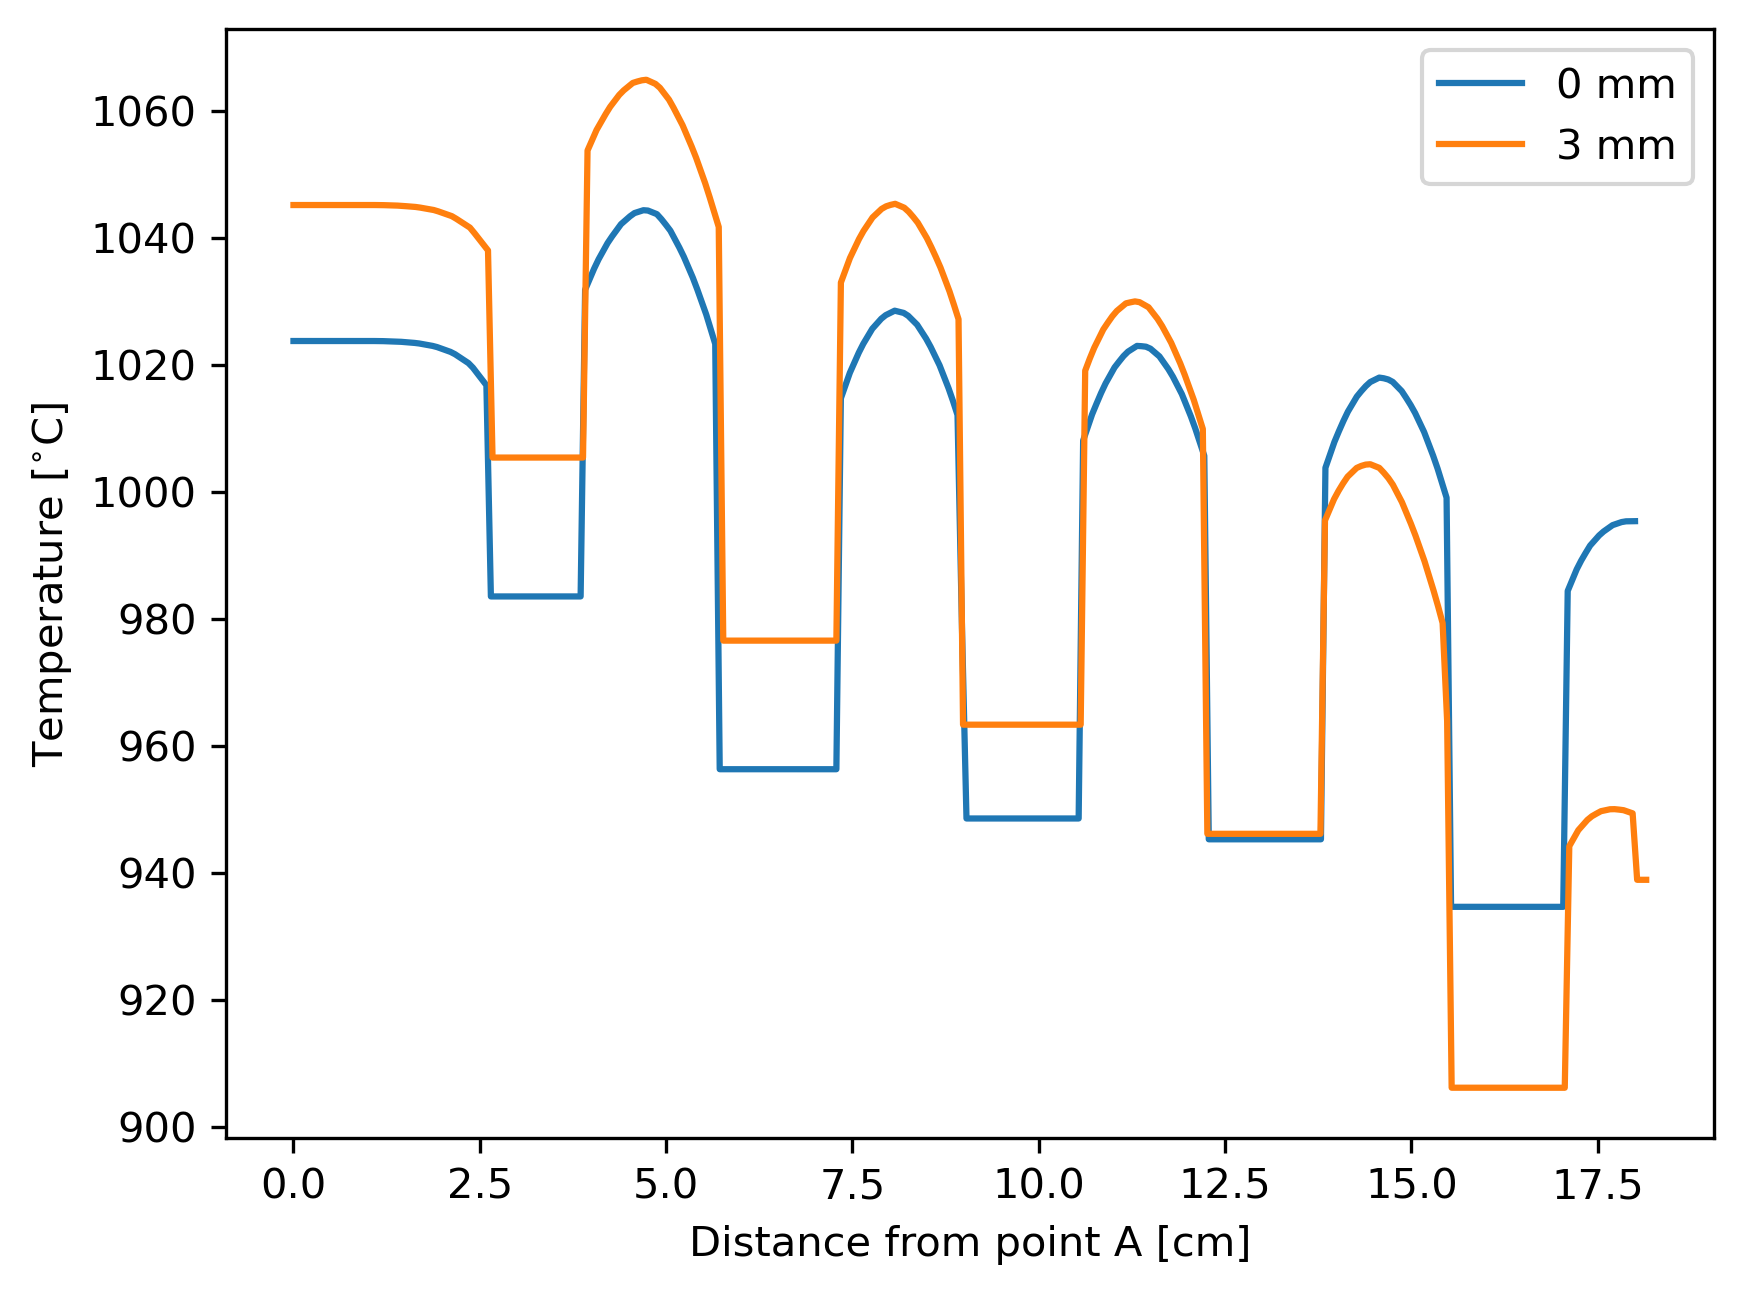
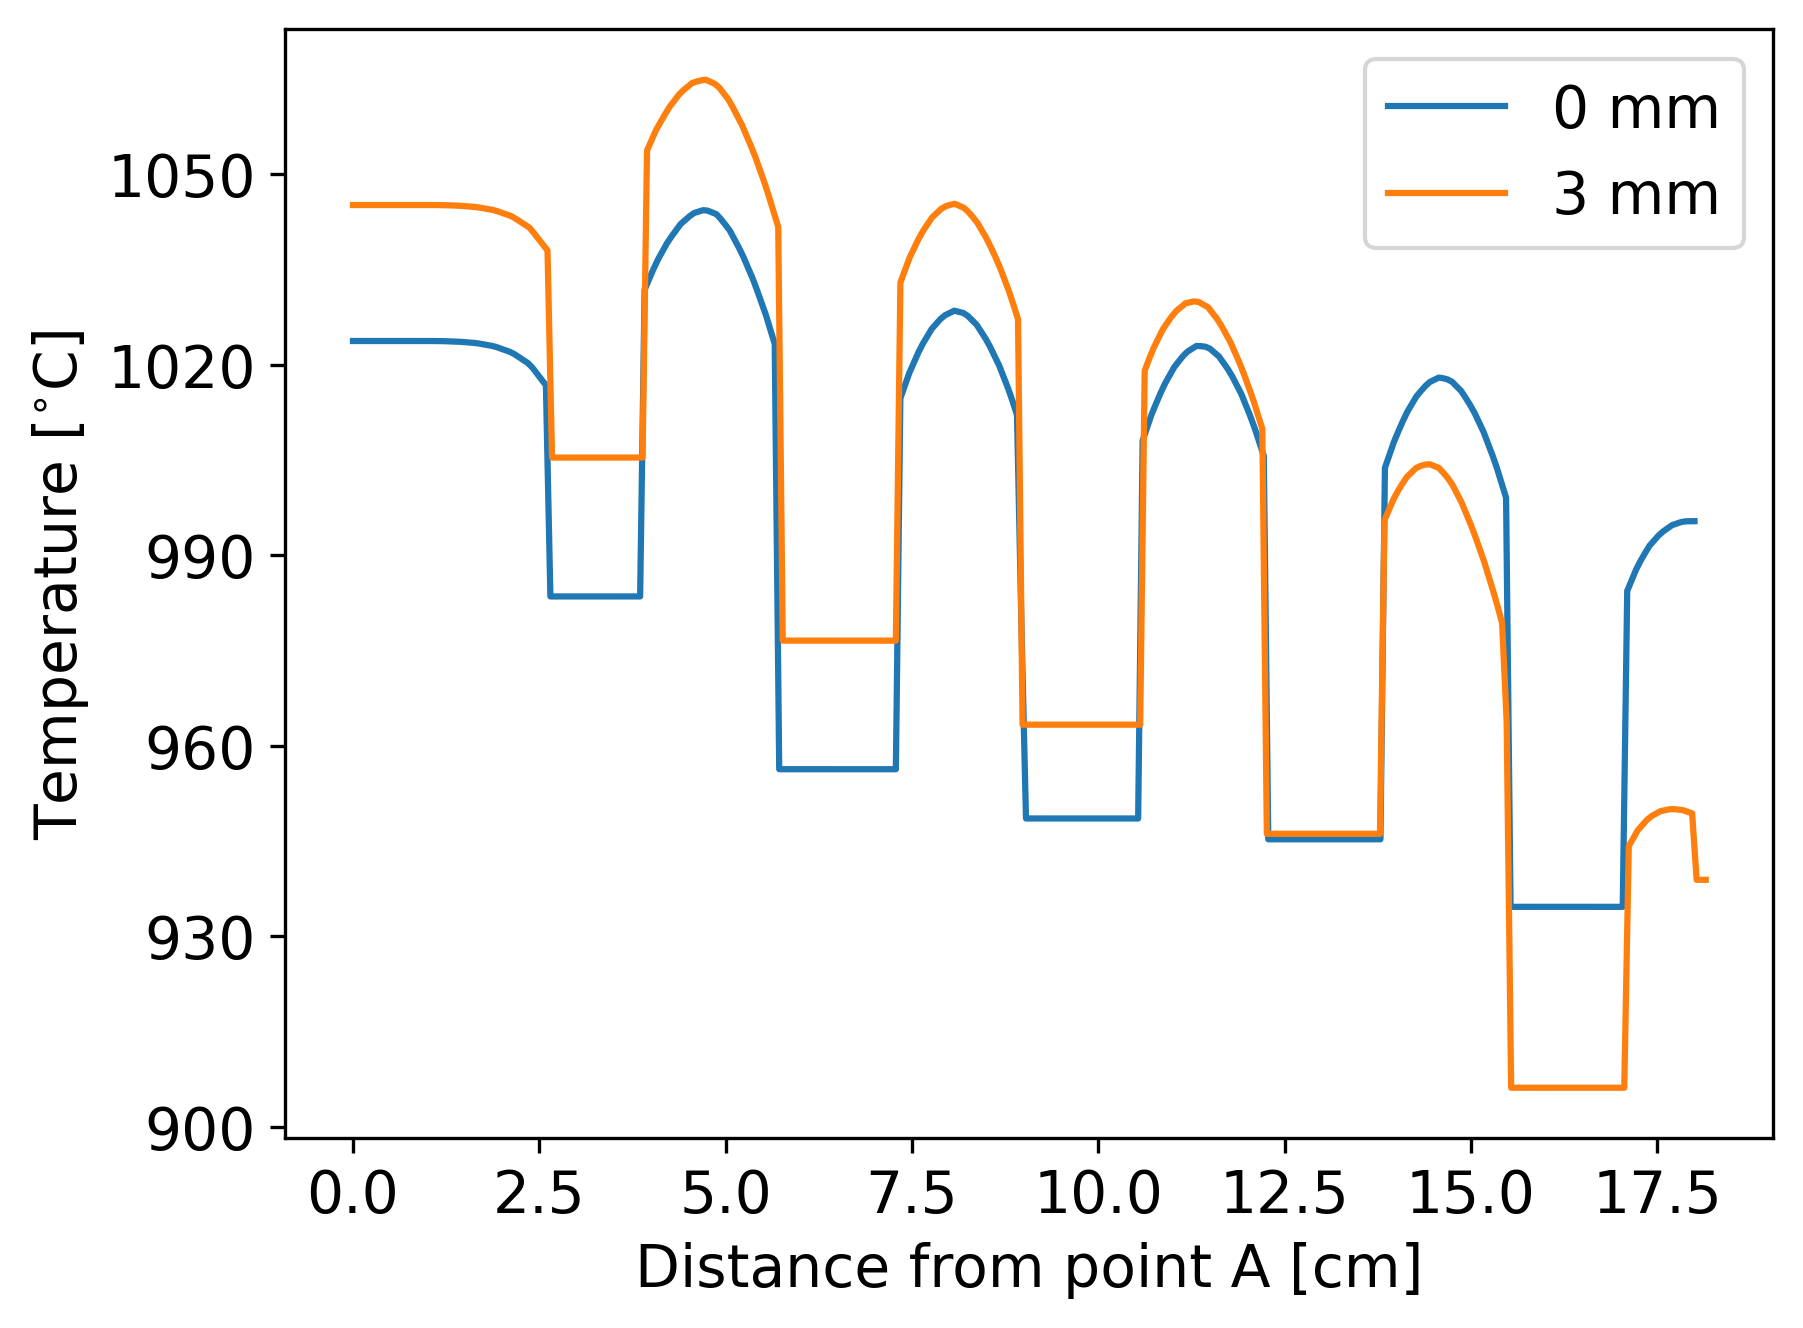
updating the font in the figures

diff --git a/thermalfluids.tex b/thermalfluids.tex
@@ -94,7 +94,7 @@ This section intended to reproduce the results found by In et al. 2006 \cite{in_
 I chose this article because it solves a three-dimensional unit-cell model and gives one of the most thorough descriptions in the open literature.
 Table \ref{tab:th-val-unit-char} presents the problem characteristics.
 The article does not specify the solid's material properties, so the model used parameters from Tak et al. 2008 \cite{tak_numerical_2008}.
-Figure \ref{fig:th-val-unit-model} displays the model geometry and the temperature dependent material properties.
+Figure \ref{fig:th-val-unit-model} displays the model geometry and Figure \ref{fig:th-val-unit-model-b} the temperature dependent material properties.
 Additionally, In et al. used a chopped cosine as the power profile, which the model used the average value of to simplify the analysis.
 
 \begin{table}[htbp!]
@@ -129,16 +129,19 @@ Additionally, In et al. used a chopped cosine as the power profile, which the mo
 \end{table}
 
 \begin{figure}[htbp!]
-	\centering
-    \subfloat[Axial layout of the model geometry.]{
-        \includegraphics[width=0.40\textwidth]{figures-thermal/unitcell2}
-    }
-    \subfloat[Temperature dependent material properties \cite{tak_numerical_2008}. \label{fig:th-val-unit-model-b}]{
-        \includegraphics[width=0.45\textwidth]{figures-thermal/val-unit-matprop}
-    }
-	\hfill
-  \caption{Unit cell model input file parameters.}
-	\label{fig:th-val-unit-model}
+  \centering
+  \includegraphics[width=0.40\linewidth]{figures-thermal/unitcell2}
+  \hfill
+  \caption{Axial layout of the model geometry.}
+  \label{fig:th-val-unit-model}
+\end{figure}
+
+\begin{figure}[htbp!]
+  \centering
+  \includegraphics[width=0.40\linewidth]{figures-thermal/val-unit-matprop}
+  \hfill
+  \caption{Temperature dependent material properties \cite{tak_numerical_2008}.}
+  \label{fig:th-val-unit-model-b}
 \end{figure}
 
 Figure \ref{fig:th-val-unit-temps} shows the temperature profiles.
